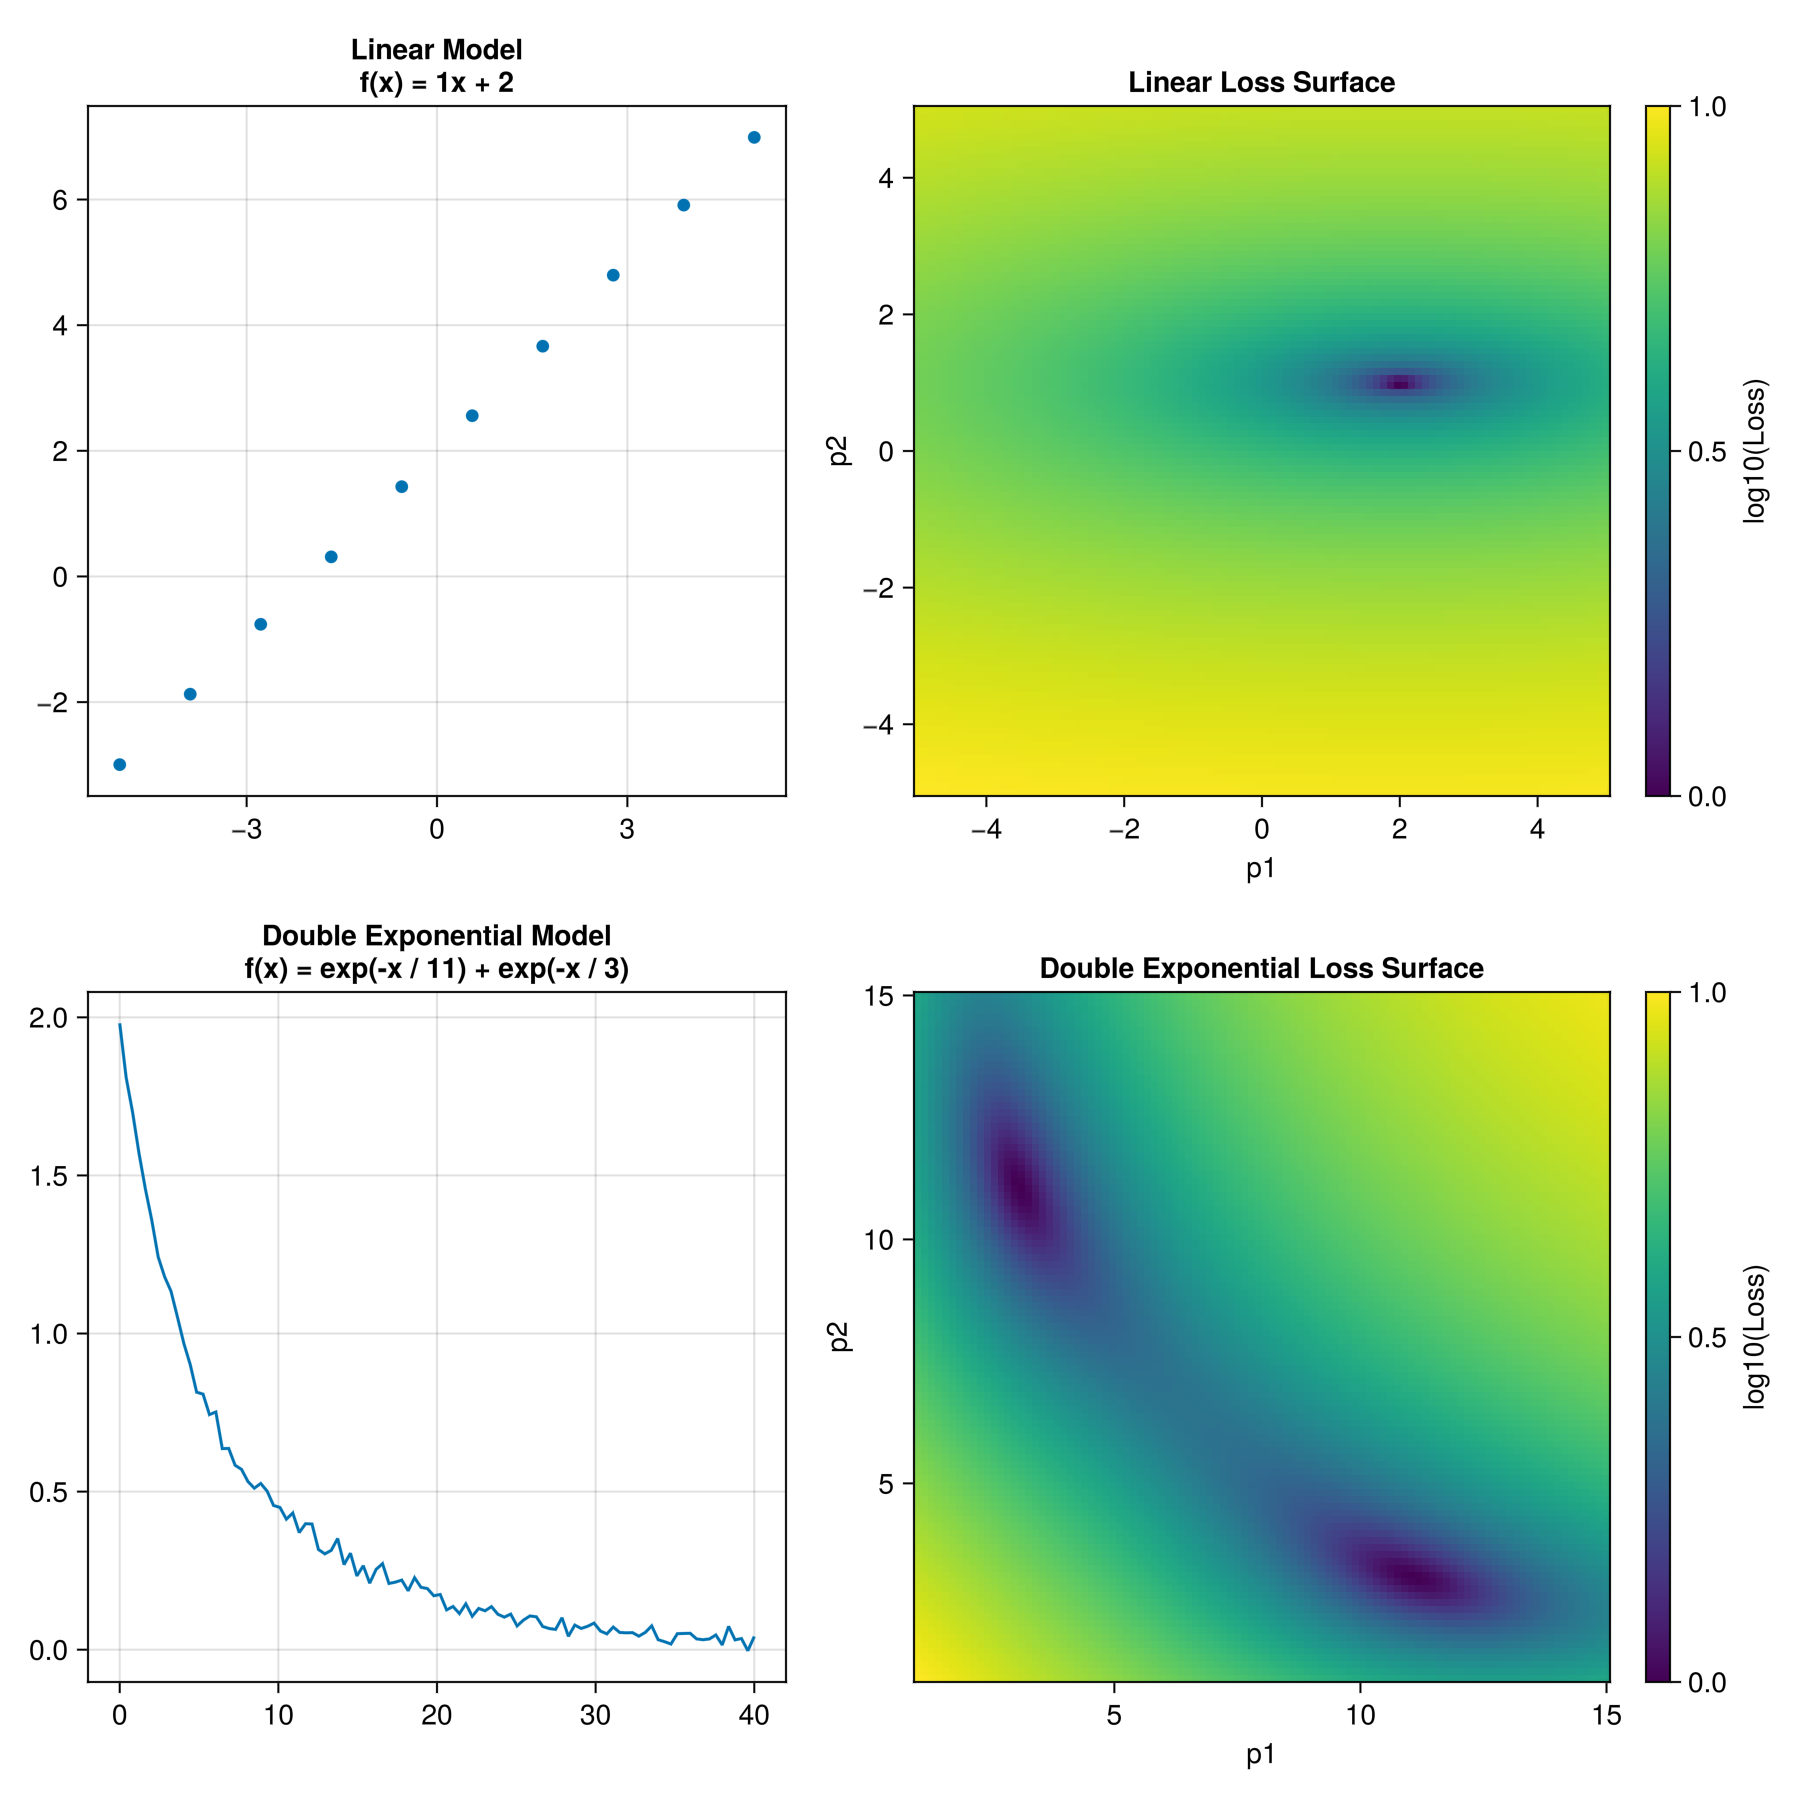
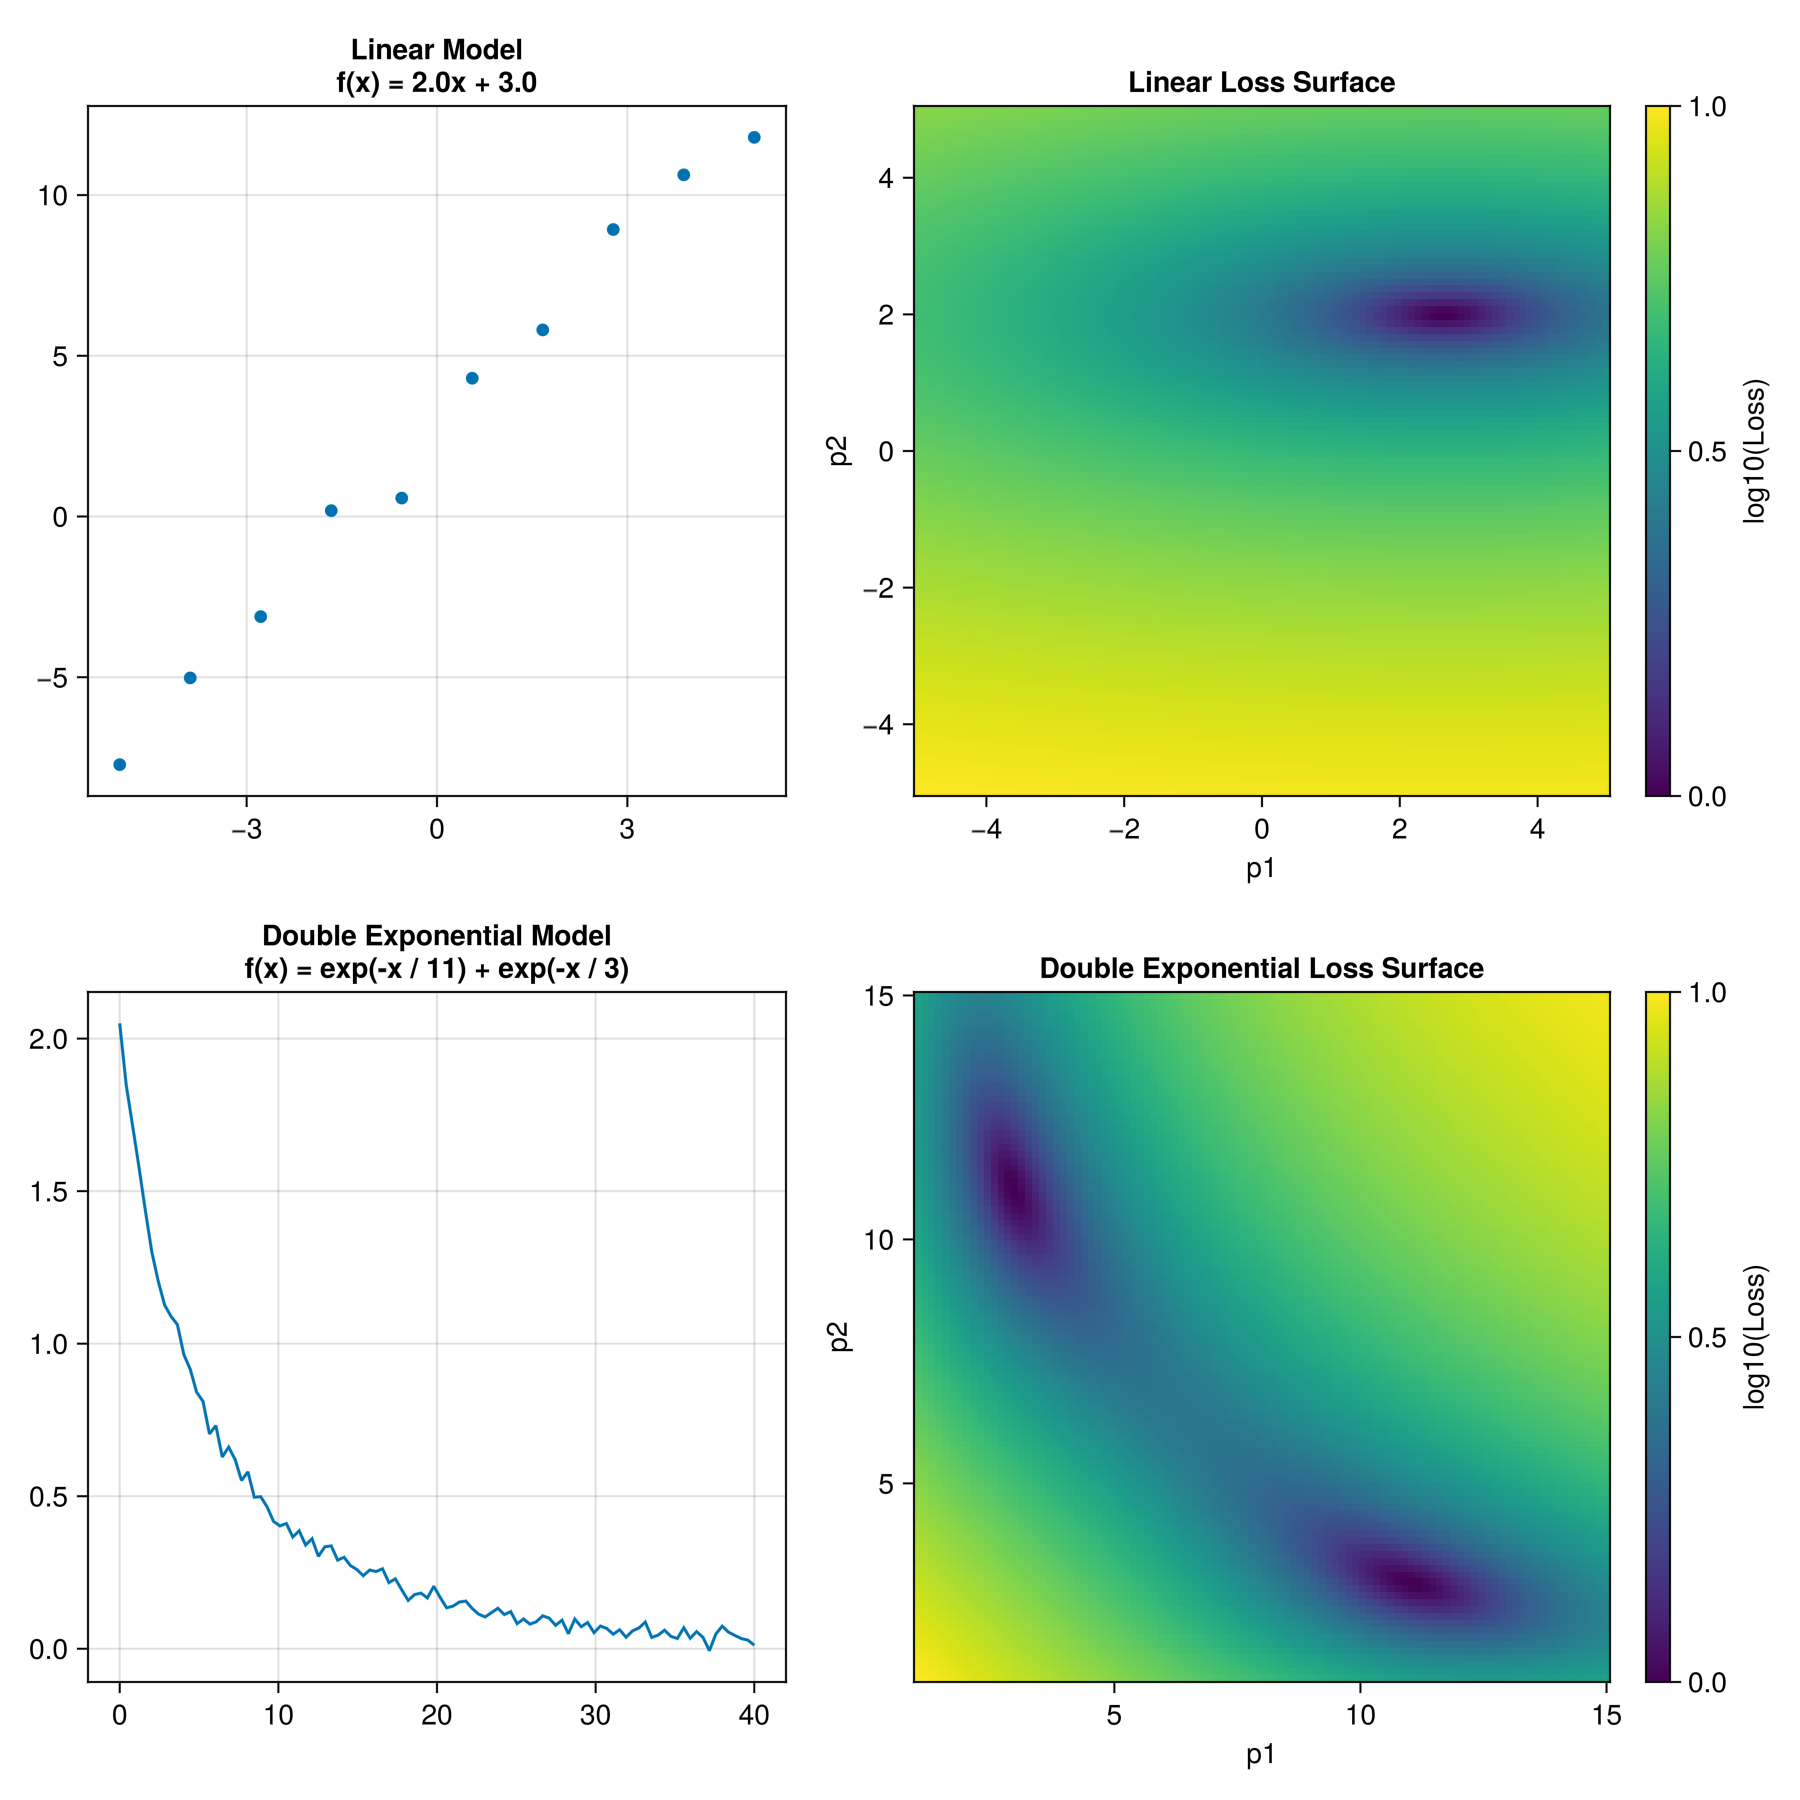
Finish rough optimization chapter

diff --git a/chapters/09. Optimization.md b/chapters/09. Optimization.md
@@ -1,46 +1,94 @@
-# Optimizing a function
+# Optimization
+
+The fitting we did in the previous chapter is a simple example of optimization.
+An optimization problem maximizes or minimizes an objective function by varying the input parameters.
+With least squares fitting the objective function is the sum of the squared residuals, and this is then minimized.
+
+It is often useful to visualize the loss function, which is the objective function plotted as a function of the parameters.
+Below are two examples of the loss functions plotted as functions of parameters for a linear model $f(x) = p_1 x + p_2$ and a double exponential model $f(x) = e^{-x/\tau_1} + e^{-x/\tau_2}$.
+Here, $p_1$ and $p_2$ are 2 and 3, respectively, and $\tau_1$ and $\tau_2$ are 11 and 3, respectively.
+You can see that the loss function is a simple parabola for the linear model the minimum of the parabola occurs at the point (2, 3).
+The double exponential loss surface has two wells, one at (11, 3) and the other at (3, 11) because it does not matter which of the two time constants is assigned to which parameter.
+More complicated loss functions can have multiple wells, and the optimization algorithm may get stuck in a local minimum.
+Thus the choice of optimization algorithm becomes important.
 
 ![](../images/loss_surface.png)
 
 
-In the final experiment tutorial, you measured the spectrum for
-a polariton system.
+Later you will measure the Rabi splitting of a polariton system as a function of beam incidence angle.
+There will be two peaks in the transmission spectrum, one corresponding to the upper polariton and the other to the lower polariton, that will change in frequency with angle.
 If the two polariton peaks have the sample transmission amplitude,
-then the Rabi splitting is the frequency (energy) difference between the two peaks.
+then the Rabi splitting is the frequency difference between the two peaks.
 Another way to extract the Rabi splitting is to measure
-the angle-resolved spectrum, plot the energy versus incidence angle, and fit the data to a simple coupled harmonic oscillator model. We did not measure the angle dependence, so this lesson
-provides some fake data to work with.
-
-Since the data is more complicated than a simple curve, we will write our own loss function and minimize it using the `Optim.jl` package. This is often required if the data do not fit to a simple model, or you wish to use a specific algorithm. 
-(Julia has a rich ecosystem of machine learning and optimization packages that you may wish to take advantage of during your studies).
-
-As a reminder, we want to minimize the square of the errors between the model and the raw data:
-
-$$\text{min}\sum_i \left( y_\text{model}(x_i) - y_\text{i, data} \right)^2.$$
-
-In this case, we will use generated data
-representing the polariton dispersion curve
-from an angle-resolved measurement.
-
-To fit this data, we use a simple coupled-oscillator Hamiltonian:
-
-$$H_\text{total} = H_0 + H'$$
+the angle-resolved spectrum, plot the frequency versus incidence angle, and fit the data to a simple coupled harmonic oscillator model, given by the Hamiltonian:
 
 $$H_\text{total} = \begin{pmatrix}
-E_\text{cavity} & 0 \\
-0 & E_\text{vibration}
+\nu_c(\theta) & 0 \\
+0 & \nu_v
 \end{pmatrix}
 + \begin{pmatrix}
 0 & \Omega_R / 2 \\
 \Omega_R / 2 & 0
 \end{pmatrix}
 = \begin{pmatrix}
-E_\text{cavity} & \Omega_R / 2 \\
-\Omega_R / 2 & E_\text{vibration}
+\nu_c(\theta) & \Omega_R / 2 \\
+\Omega_R / 2 & \nu_v
 \end{pmatrix}$$
 
-The cavity mode energy is $E_\text{cavity}$, which depends on the angle $\theta$ of the beam with respect to the normal of the cavity surface.
-The molecular vibrational transition is $E_\text{vibration}$, and the Rabi splitting is $\Omega_R$.
-Diagonalize the Hamiltonian to find the upper and lower polariton energies.
+Diagonalizing the Hamiltonian gives the upper and lower polariton energies:
+$$\nu_\pm(\theta) = \frac{1}{2}\left[ \nu_c(\theta) + \nu_v \pm \sqrt{\left(\nu_c(\theta) - \nu_v\right)^2 + \Omega_R^2}\right]$$
 
-Finally, write an error function to minimize the lower and upper polariton energy equations.
+The molecular vibrational transition is $\nu_v$, and the Rabi splitting magnitude is $\Omega_R$. The cavity mode frequency $\nu_c$ is given by the equation
+
+$$\nu_c(\theta) = \nu_c(0)\left(1 - \frac{\sin^2\theta}{n^2} \right)^{-1/2}$$
+where $\theta$ is the beam angle with respect to the normal of the cavity surface and $n$ is the refractive index of the intracavity medium.
+
+Let's first do this using the `LsqFit.jl` package and modify the model slightly to include both upper polariton and lower polariton curves.
+First, we need to write a function for the upper and lower polariton energies. This is an exercise for you to do.
+The function should take the parameters $\nu_c(0)$, $\nu_v$, $\Omega_R$, and $n$ as input, and return the upper and lower polariton frequencies as output. Then we use the polariton function to create a model function for fitting.
+
+```julia
+using LsqFit
+
+function polariton_freqs(θs, ...)
+    # Your code here
+end
+
+function model(θs, p)
+    E_v, E_0, n, Ω = p
+    LP = polariton_freqs(θs, ...)
+    UP = polariton_freqs(θs, ...)
+    return vcat(LP, UP)
+end
+```
+
+Here we have used a new function called `vcat()` to concatenate the two vectors of frequencies into a single vector.
+This way we can use the same fitting function for both the upper and lower polariton frequencies simultaneously.
+
+Then it's just a matter of organizing our data appropriately and calling the `curve_fit()` function.
+
+```julia
+fit = curve_fit(model, θs, vcat(LP, UP), [E_v, E_0, n, Ω])
+```
+Just as before, the parameters are passed as a vector in `fit.param`.
+If you plot you data and fitted curves, you should obtain something like the following.
+
+![](../images/polariton_fit.png)
+
+
+### Activity
+
+Try this yourself. In particular, try changing the number of fitting parameters.
+In the example above, we allowed four parameters to vary, but you can also fix some of them to known values.
+Often the molecular vibrational mode is known, for example.
+Remember to report the standard error on each parameter and the confidence intervals.
+What do these quantities mean?
+
+
+## More advanced optimization
+The `LsqFit.jl` package only uses the Levenberg-Marquardt algorithm for optimization.
+The Levenberg-Marquardt algorithm can be slow and may not converge to the global minimum, particularly in cases where the loss function has multiple wells.
+Sometimes we need a different algorithm or more powerful optimization methods.
+In these cases, it's usually necessary to define the loss function explicitly and use a more general optimization package.
+There are several alternatives and the Julia ecosystem has become a rich source of modeling, equation solving, and optimization tools.
+This page on [fitting a simulation to a dataset](https://docs.sciml.ai/Overview/stable/getting_started/fit_simulation/) provides a good example suitable for our lab.

diff --git a/chapters/08. Basic fitting.md b/chapters/08. Basic fitting.md
@@ -25,7 +25,7 @@ Minimizing this sum of the squared residuals will return the optimal parameters 
 The sum of the squared residuals is given by
 
 $$
-S = \sum_{i=1}^n r_i^2 = \sum_{i=1}^n (y_i - f(x_i, p))^2
+S = \sum_{i=1}^n r_i^2 = \sum_{i=1}^n \left(y_i - f(x_i, p) \right)^2
 $$
 
 This function is also known as the cost or [loss function](https://en.wikipedia.org/wiki/Loss_function). Sometimes it is also referred to as the error function.
@@ -62,6 +62,12 @@ You should end up with something like below, depending on how much noise you add
 Remember to include an error estimate for each parameter.
 
 ![](../images/lorentzian_fit.png)
+
+It is useful to plot the residuals of the fit to see how well the results fit the data.
+There should not be any systematic structure in the residuals.
+If there is, then the model is not a good fit to the data.
+
+![](../images/residuals.png)
 
 
 
